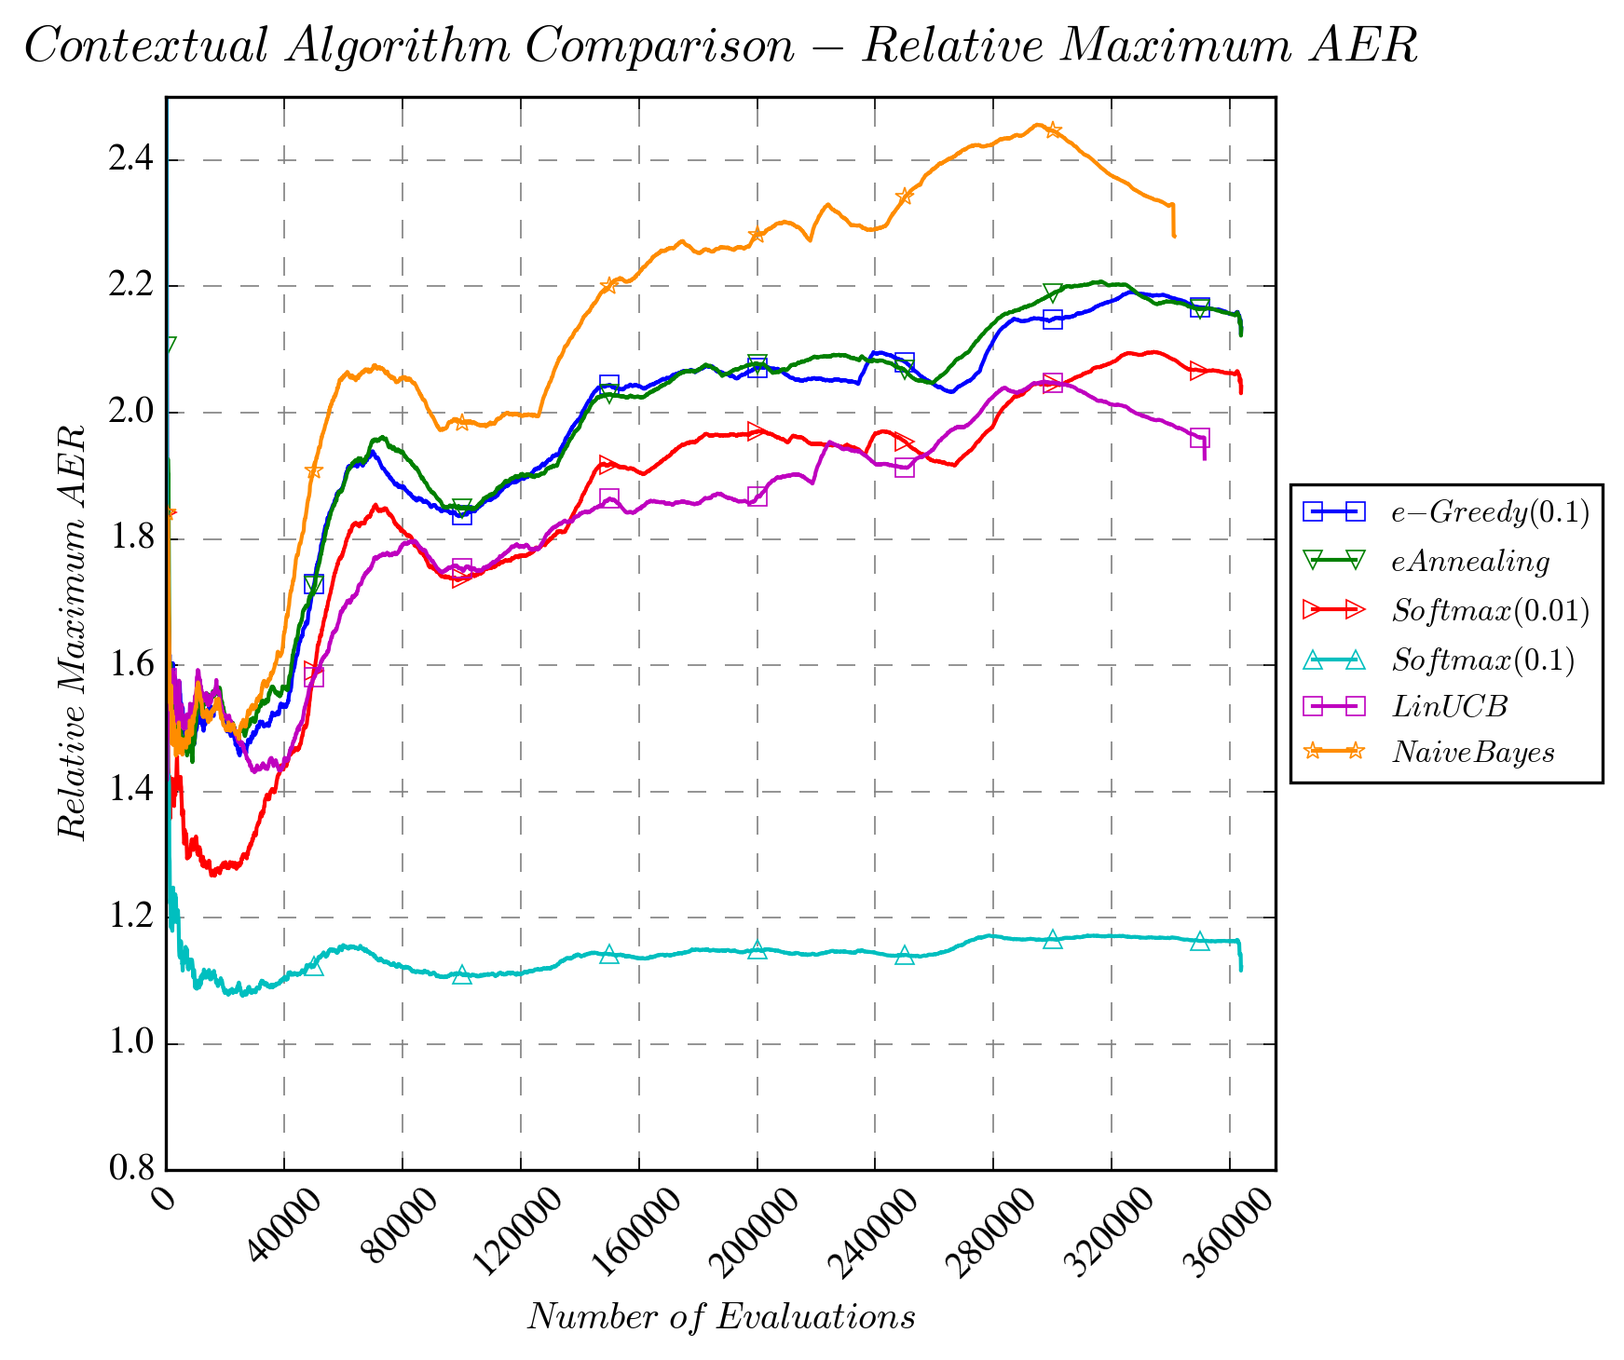
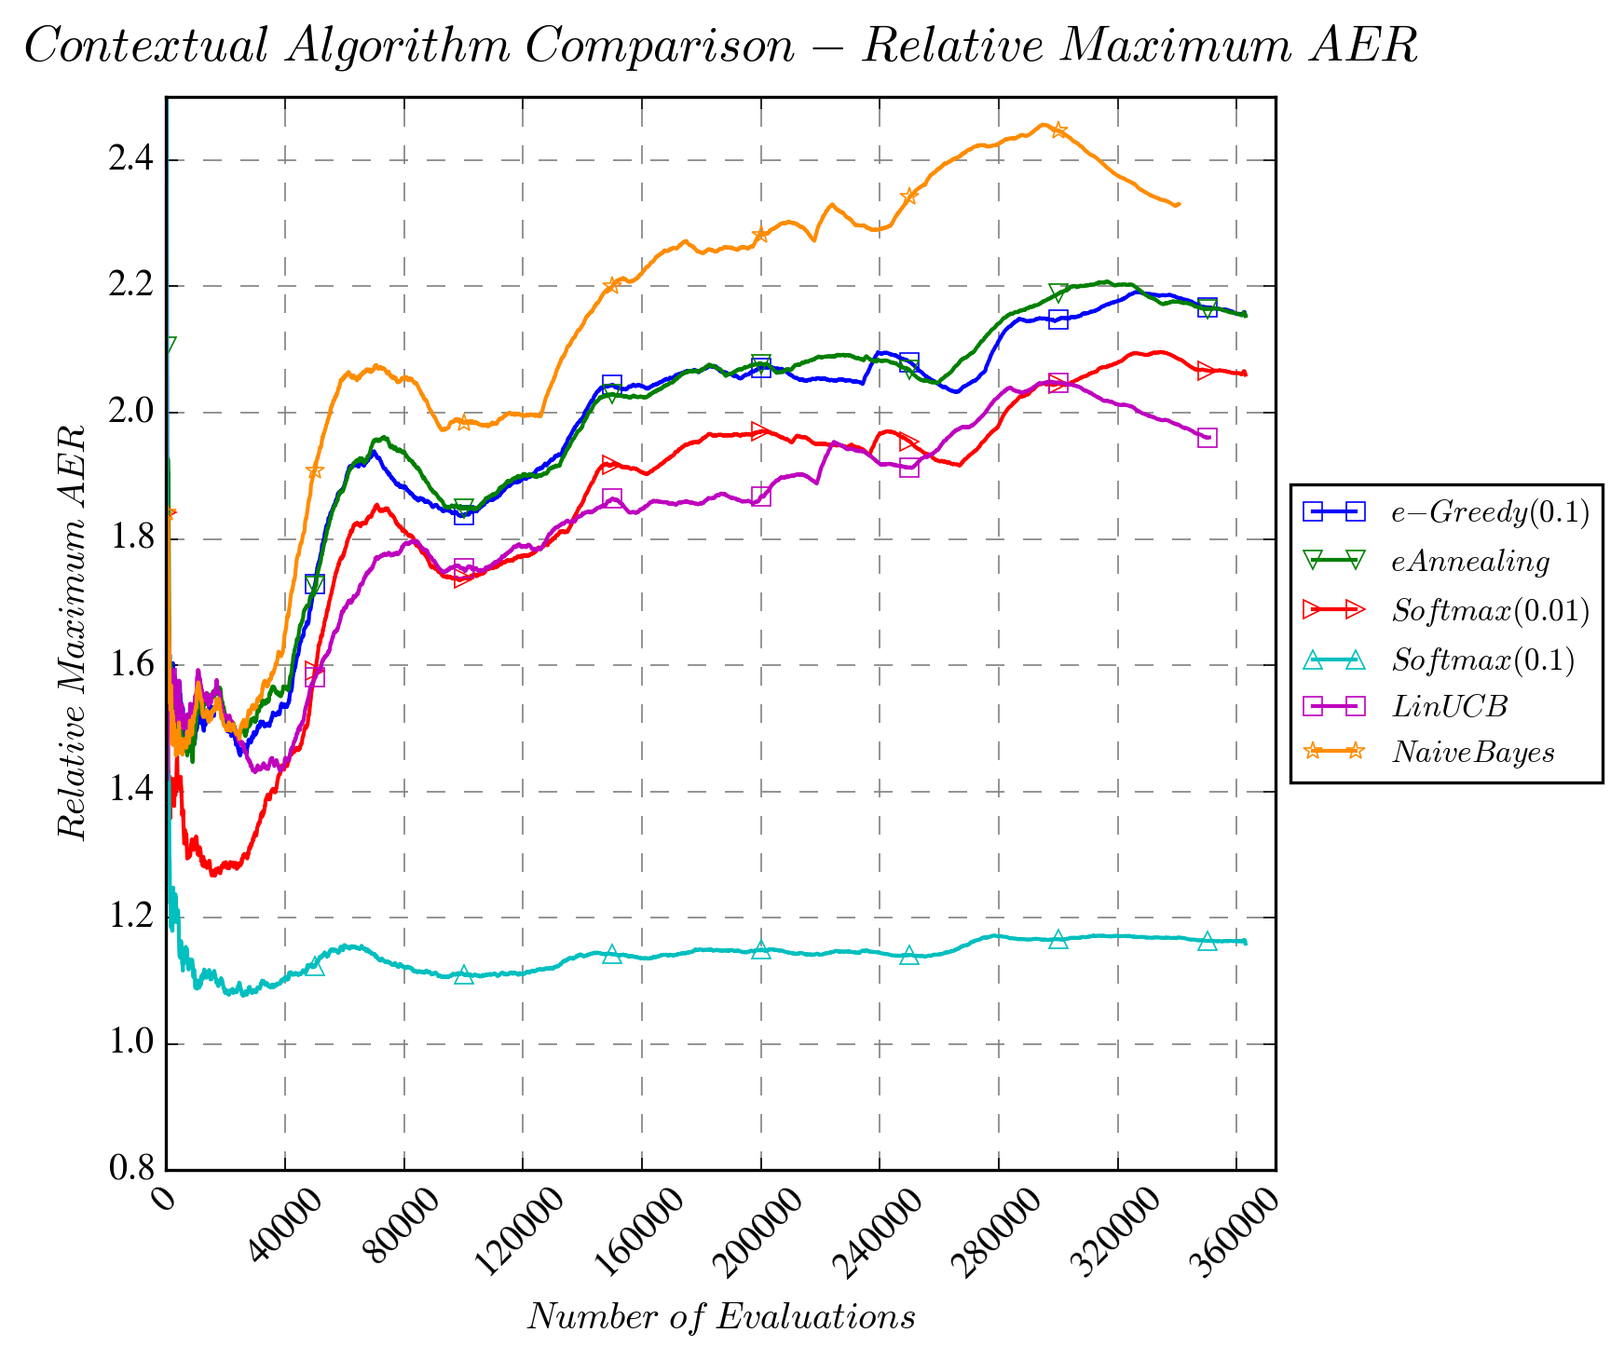
Continue updates to ensemble names

diff --git a/create_aer_proportion_of_optimal_vs_time_ensemble_plot.py b/create_aer_proportion_of_optimal_vs_time_ensemble_plot.py
@@ -24,12 +24,12 @@ ax.set_ylabel(r"$AER\ Proportion\ of\ Optimal\ Policy$")
 
 ax.plot(data['TimeBin'],data['EnsembleRandom']/data['MaxInRow'], lw='1.25', label=r'$EnsRandom$', marker='o', markevery=20, fillstyle='none')
 ax.plot(data['TimeBin'],data['EnsembleRandomUpdateAll']/data['MaxInRow'], lw='1.25', label=r'$EnsRandomUpdateAll$', marker='v', markevery=20, fillstyle='none')
-ax.plot(data['TimeBin'],data['EnsembleEAnnealingUpdateAll']/data['MaxInRow'], lw='1.25', label=r'$EnsEAnn$', marker='^', markevery=20, fillstyle='none')
-#ax.plot(data['TimeBin'],data['EnsembleBayesianUpdateAll']/data['MaxInRow'], lw='1.25', label=r'$EnsBayesian$', marker='s', markevery=20, fillstyle='none')
-ax.plot(data['TimeBin'],data['EnsembleBinomialUCIUpdateAll']/data['MaxInRow'], lw='1.25', label=r'$EnsBinomialUCI$', marker='*', markevery=20, fillstyle='none')
-ax.plot(data['TimeBin'],data['EnsembleSoftmax001UpdateAll']/data['MaxInRow'], lw='1.25', label=r'$EnsSoftmax0.01$', color='deepskyblue', marker='>', markevery=20, fillstyle='none')
-ax.plot(data['TimeBin'],data['EnsembleBinomialUCIMod1UpdateAll']/data['MaxInRow'], lw='1.25', label=r'$EnsBinomialUCIMod1$', marker='+', markevery=20, fillstyle='none')
-ax.plot(data['TimeBin'],data['EnsembleBinomialUCIMod2UpdateAll']/data['MaxInRow'], lw='1.25', label=r'$EnsBinomialUCIMod2$', color='fuchsia', marker='D', markevery=20, fillstyle='none')
+ax.plot(data['TimeBin'],data['EnsembleEAnnealing']/data['MaxInRow'], lw='1.25', label=r'$EnsEAnn$', marker='^', markevery=20, fillstyle='none')
+#ax.plot(data['TimeBin'],data['EnsembleBayesian']/data['MaxInRow'], lw='1.25', label=r'$EnsBayesian$', marker='s', markevery=20, fillstyle='none')
+ax.plot(data['TimeBin'],data['EnsembleBinomialUCI']/data['MaxInRow'], lw='1.25', label=r'$EnsBinomialUCI$', marker='*', markevery=20, fillstyle='none')
+ax.plot(data['TimeBin'],data['EnsembleSoftmax001']/data['MaxInRow'], lw='1.25', label=r'$EnsSoftmax0.01$', color='deepskyblue', marker='>', markevery=20, fillstyle='none')
+ax.plot(data['TimeBin'],data['EnsembleBinomialUCIMod1']/data['MaxInRow'], lw='1.25', label=r'$EnsBinomialUCIMod1$', marker='+', markevery=20, fillstyle='none')
+ax.plot(data['TimeBin'],data['EnsembleBinomialUCIMod2']/data['MaxInRow'], lw='1.25', label=r'$EnsBinomialUCIMod2$', color='fuchsia', marker='D', markevery=20, fillstyle='none')
 
 box = ax.get_position()
 ax.set_position([box.x0, box.y0, box.width * 0.8, box.height])

diff --git a/create_mean_aer_vs_time_plot_ensemble.py b/create_mean_aer_vs_time_plot_ensemble.py
@@ -24,12 +24,12 @@ ax.set_ylabel(r"$Relative\ Mean\ AER$")
 
 ax.plot(data['TimeBin'],data['EnsembleRandom']/data['Random'], lw='1.25', label=r'$EnsRandom$', marker='o', markevery=500, fillstyle='none')
 ax.plot(data['TimeBin'],data['EnsembleRandomUpdateAll']/data['Random'], lw='1.25', label=r'$EnsRandomUpdateAll$', marker='v', markevery=500, fillstyle='none')
-ax.plot(data['TimeBin'],data['EnsembleEAnnealingUpdateAll']/data['Random'], lw='1.25', label=r'$EnsEAnn$', marker='^', markevery=500, fillstyle='none')
-#ax.plot(data['TimeBin'],data['EnsembleBayesianUpdateAll']/data['Random'], lw='1.25', label=r'$EnsBayesian$', marker='s', markevery=500, fillstyle='none')
-ax.plot(data['TimeBin'],data['EnsembleBinomialUCIUpdateAll']/data['Random'], lw='1.25', label=r'$EnsBinomialUCI$', marker='*', markevery=500, fillstyle='none')
-ax.plot(data['TimeBin'],data['EnsembleSoftmax001UpdateAll']/data['Random'], lw='1.25', label=r'$EnsSoftmax0.01$', color='deepskyblue', marker='>', markevery=500, fillstyle='none')
-ax.plot(data['TimeBin'],data['EnsembleBinomialUCIMod1UpdateAll']/data['Random'], lw='1.25', label=r'$EnsBinomialUCIMod1$', marker='+', markevery=500, fillstyle='none')
-ax.plot(data['TimeBin'],data['EnsembleBinomialUCIMod2UpdateAll']/data['Random'], lw='1.25', label=r'$EnsBinomialUCIMod2$', color='fuchsia', marker='D', markevery=500, fillstyle='none')
+ax.plot(data['TimeBin'],data['EnsembleEAnnealing']/data['Random'], lw='1.25', label=r'$EnsEAnn$', marker='^', markevery=500, fillstyle='none')
+#ax.plot(data['TimeBin'],data['EnsembleBayesian']/data['Random'], lw='1.25', label=r'$EnsBayesian$', marker='s', markevery=500, fillstyle='none')
+ax.plot(data['TimeBin'],data['EnsembleBinomialUCI']/data['Random'], lw='1.25', label=r'$EnsBinomialUCI$', marker='*', markevery=500, fillstyle='none')
+ax.plot(data['TimeBin'],data['EnsembleSoftmax001']/data['Random'], lw='1.25', label=r'$EnsSoftmax0.01$', color='deepskyblue', marker='>', markevery=500, fillstyle='none')
+ax.plot(data['TimeBin'],data['EnsembleBinomialUCIMod1']/data['Random'], lw='1.25', label=r'$EnsBinomialUCIMod1$', marker='+', markevery=500, fillstyle='none')
+ax.plot(data['TimeBin'],data['EnsembleBinomialUCIMod2']/data['Random'], lw='1.25', label=r'$EnsBinomialUCIMod2$', color='fuchsia', marker='D', markevery=500, fillstyle='none')
 
 box = ax.get_position()
 ax.set_position([box.x0, box.y0, box.width * 0.8, box.height])

diff --git a/create_aer_proportion_of_optimal_ensemble_plot.py b/create_aer_proportion_of_optimal_ensemble_plot.py
@@ -24,12 +24,12 @@ ax.set_ylabel(r"$AER\ Proportion\ of\ Optimal\ Policy$")
 
 ax.plot(data['t'],data['EnsembleRandom']/data['MaxInRow'], lw='1.25', label=r'$EnsRandom$', marker='o', markevery=500, fillstyle='none')
 ax.plot(data['t'],data['EnsembleRandomUpdateAll']/data['MaxInRow'], lw='1.25', label=r'$EnsRandomUpdateAll$', marker='v', markevery=500, fillstyle='none')
-ax.plot(data['t'],data['EnsembleEAnnealingUpdateAll']/data['MaxInRow'], lw='1.25', label=r'$EnsEAnn$', marker='^', markevery=500, fillstyle='none')
-#ax.plot(data['t'],data['EnsembleBayesianUpdateAll']/data['MaxInRow'], lw='1.25', label=r'$EnsBayesian$', marker='s', markevery=500, fillstyle='none')
-ax.plot(data['t'],data['EnsembleBinomialUCIUpdateAll']/data['MaxInRow'], lw='1.25', label=r'$EnsBinomialUCI$', marker='*', markevery=500, fillstyle='none')
-ax.plot(data['t'],data['EnsembleSoftmax001UpdateAll']/data['MaxInRow'], lw='1.25', label=r'$EnsSoftmax0.01$', color='deepskyblue', marker='>', markevery=500, fillstyle='none')
-ax.plot(data['t'],data['EnsembleBinomialUCIMod1UpdateAll']/data['MaxInRow'], lw='1.25', label=r'$EnsBinomialUCIMod1$', marker='+', markevery=500, fillstyle='none')
-ax.plot(data['t'],data['EnsembleBinomialUCIMod2UpdateAll']/data['MaxInRow'], lw='1.25', label=r'$EnsBinomialUCIMod2$', color='fuchsia', marker='D', markevery=500, fillstyle='none')
+ax.plot(data['t'],data['EnsembleEAnnealing']/data['MaxInRow'], lw='1.25', label=r'$EnsEAnn$', marker='^', markevery=500, fillstyle='none')
+#ax.plot(data['t'],data['EnsembleBayesian']/data['MaxInRow'], lw='1.25', label=r'$EnsBayesian$', marker='s', markevery=500, fillstyle='none')
+ax.plot(data['t'],data['EnsembleBinomialUCI']/data['MaxInRow'], lw='1.25', label=r'$EnsBinomialUCI$', marker='*', markevery=500, fillstyle='none')
+ax.plot(data['t'],data['EnsembleSoftmax001']/data['MaxInRow'], lw='1.25', label=r'$EnsSoftmax0.01$', color='deepskyblue', marker='>', markevery=500, fillstyle='none')
+ax.plot(data['t'],data['EnsembleBinomialUCIMod1']/data['MaxInRow'], lw='1.25', label=r'$EnsBinomialUCIMod1$', marker='+', markevery=500, fillstyle='none')
+ax.plot(data['t'],data['EnsembleBinomialUCIMod2']/data['MaxInRow'], lw='1.25', label=r'$EnsBinomialUCIMod2$', color='fuchsia', marker='D', markevery=500, fillstyle='none')
 
 box = ax.get_position()
 ax.set_position([box.x0, box.y0, box.width * 0.8, box.height])

diff --git a/create_max_aer_plot_ensemble.py b/create_max_aer_plot_ensemble.py
@@ -25,12 +25,12 @@ ax.set_ylabel(r"$Relative\ Maximum\ AER$")
 
 ax.plot(data['t'],data['EnsembleRandom']/data2['Random'], lw='1.25', label=r'$EnsRandom$', marker='s', markevery=500, fillstyle='none')
 ax.plot(data['t'],data['EnsembleRandomUpdateAll']/data2['Random'], lw='1.25', label=r'$EnsRandomUpdateAll$', marker='v', markevery=500, fillstyle='none')
-ax.plot(data['t'],data['EnsembleEAnnealingUpdateAll']/data2['Random'], lw='1.25', label=r'$EnsEAnn$', marker='^', markevery=500, fillstyle='none')
-#ax.plot(data['t'],data['EnsembleBayesianUpdateAll']/data2['Random'], lw='1.25', label=r'$EnsBayesian$', marker='s', markevery=500, fillstyle='none')
-ax.plot(data['t'],data['EnsembleBinomialUCIUpdateAll']/data2['Random'], lw='1.25', label=r'$EnsBinomialUCI$', marker='*', markevery=500, fillstyle='none')
-ax.plot(data['t'],data['EnsembleSoftmax001UpdateAll']/data2['Random'], lw='1.25', label=r'$EnsSoftmax0.01$', color='deepskyblue', marker='>', markevery=500, fillstyle='none')
-ax.plot(data['t'],data['EnsembleBinomialUCIMod1UpdateAll']/data2['Random'], lw='1.25', label=r'$EnsBinomialUCIMod1$', marker='+', markevery=500, fillstyle='none')
-ax.plot(data['t'],data['EnsembleBinomialUCIMod2UpdateAll']/data2['Random'], lw='1.25', label=r'$EnsBinomialUCIMod2$', color='fuchsia', marker='D', markevery=500, fillstyle='none')
+ax.plot(data['t'],data['EnsembleEAnnealing']/data2['Random'], lw='1.25', label=r'$EnsEAnn$', marker='^', markevery=500, fillstyle='none')
+#ax.plot(data['t'],data['EnsembleBayesian']/data2['Random'], lw='1.25', label=r'$EnsBayesian$', marker='s', markevery=500, fillstyle='none')
+ax.plot(data['t'],data['EnsembleBinomialUCI']/data2['Random'], lw='1.25', label=r'$EnsBinomialUCI$', marker='*', markevery=500, fillstyle='none')
+ax.plot(data['t'],data['EnsembleSoftmax001']/data2['Random'], lw='1.25', label=r'$EnsSoftmax0.01$', color='deepskyblue', marker='>', markevery=500, fillstyle='none')
+ax.plot(data['t'],data['EnsembleBinomialUCIMod1']/data2['Random'], lw='1.25', label=r'$EnsBinomialUCIMod1$', marker='+', markevery=500, fillstyle='none')
+ax.plot(data['t'],data['EnsembleBinomialUCIMod2']/data2['Random'], lw='1.25', label=r'$EnsBinomialUCIMod2$', color='fuchsia', marker='D', markevery=500, fillstyle='none')
 
 box = ax.get_position()
 ax.set_position([box.x0, box.y0, box.width * 0.8, box.height])

diff --git a/create_min_aer_plot_ensemble.py b/create_min_aer_plot_ensemble.py
@@ -25,12 +25,12 @@ ax.set_ylabel(r"$Relative\ Minimum\ AER$")
 
 ax.plot(data['t'],data['EnsembleRandom']/data2['Random'], lw='1.25', label=r'$EnsRandom$', marker='s', markevery=500, fillstyle='none')
 ax.plot(data['t'],data['EnsembleRandomUpdateAll']/data2['Random'], lw='1.25', label=r'$EnsRandomUpdateAll$', marker='v', markevery=500, fillstyle='none')
-ax.plot(data['t'],data['EnsembleEAnnealingUpdateAll']/data2['Random'], lw='1.25', label=r'$EnsEAnn$', marker='^', markevery=500, fillstyle='none')
-#ax.plot(data['t'],data['EnsembleBayesianUpdateAll']/data2['Random'], lw='1.25', label=r'$EnsBayesian$', marker='s', markevery=500, fillstyle='none')
-ax.plot(data['t'],data['EnsembleBinomialUCIUpdateAll']/data2['Random'], lw='1.25', label=r'$EnsBinomialUCI$', marker='*', markevery=500, fillstyle='none')
-ax.plot(data['t'],data['EnsembleSoftmax001UpdateAll']/data2['Random'], lw='1.25', label=r'$EnsSoftmax0.01$', color='deepskyblue', marker='>', markevery=500, fillstyle='none')
-ax.plot(data['t'],data['EnsembleBinomialUCIMod1UpdateAll']/data2['Random'], lw='1.25', label=r'$EnsBinomialUCIMod1$', marker='+', markevery=500, fillstyle='none')
-ax.plot(data['t'],data['EnsembleBinomialUCIMod2UpdateAll']/data2['Random'], lw='1.25', label=r'$EnsBinomialUCIMod2$', color='fuchsia', marker='D', markevery=500, fillstyle='none')
+ax.plot(data['t'],data['EnsembleEAnnealing']/data2['Random'], lw='1.25', label=r'$EnsEAnn$', marker='^', markevery=500, fillstyle='none')
+#ax.plot(data['t'],data['EnsembleBayesian']/data2['Random'], lw='1.25', label=r'$EnsBayesian$', marker='s', markevery=500, fillstyle='none')
+ax.plot(data['t'],data['EnsembleBinomialUCI']/data2['Random'], lw='1.25', label=r'$EnsBinomialUCI$', marker='*', markevery=500, fillstyle='none')
+ax.plot(data['t'],data['EnsembleSoftmax001']/data2['Random'], lw='1.25', label=r'$EnsSoftmax0.01$', color='deepskyblue', marker='>', markevery=500, fillstyle='none')
+ax.plot(data['t'],data['EnsembleBinomialUCIMod1']/data2['Random'], lw='1.25', label=r'$EnsBinomialUCIMod1$', marker='+', markevery=500, fillstyle='none')
+ax.plot(data['t'],data['EnsembleBinomialUCIMod2']/data2['Random'], lw='1.25', label=r'$EnsBinomialUCIMod2$', color='fuchsia', marker='D', markevery=500, fillstyle='none')
 
 box = ax.get_position()
 ax.set_position([box.x0, box.y0, box.width * 0.8, box.height])

diff --git a/create_mean_aer_plot_ensemble.py b/create_mean_aer_plot_ensemble.py
@@ -23,12 +23,12 @@ ax.set_ylabel(r"$Relative\ Mean\ AER$")
 
 ax.plot(data['t'],data['EnsembleRandom']/data['Random'], lw='1.25', label=r'$EnsRandom$', marker='o', markevery=500, fillstyle='none')
 ax.plot(data['t'],data['EnsembleRandomUpdateAll']/data['Random'], lw='1.25', label=r'$EnsRandomUpdateAll$', marker='v', markevery=500, fillstyle='none')
-ax.plot(data['t'],data['EnsembleEAnnealingUpdateAll']/data['Random'], lw='1.25', label=r'$EnsEAnn$', marker='^', markevery=500, fillstyle='none')
-#ax.plot(data['t'],data['EnsembleBayesianUpdateAll']/data['Random'], lw='1.25', label=r'$EnsBayesian$', marker='s', markevery=500, fillstyle='none')
-ax.plot(data['t'],data['EnsembleBinomialUCIUpdateAll']/data['Random'], lw='1.25', label=r'$EnsBinomialUCI$', marker='*', markevery=500, fillstyle='none')
-ax.plot(data['t'],data['EnsembleSoftmax001UpdateAll']/data['Random'], lw='1.25', label=r'$EnsSoftmax0.01$', color='deepskyblue', marker='>', markevery=500, fillstyle='none')
-ax.plot(data['t'],data['EnsembleBinomialUCIMod1UpdateAll']/data['Random'], lw='1.25', label=r'$EnsBinomialUCIMod1$', marker='+', markevery=500, fillstyle='none')
-ax.plot(data['t'],data['EnsembleBinomialUCIMod2UpdateAll']/data['Random'], lw='1.25', label=r'$EnsBinomialUCIMod2$', color='fuchsia', marker='D', markevery=500, fillstyle='none')
+ax.plot(data['t'],data['EnsembleEAnnealing']/data['Random'], lw='1.25', label=r'$EnsEAnn$', marker='^', markevery=500, fillstyle='none')
+#ax.plot(data['t'],data['EnsembleBayesian']/data['Random'], lw='1.25', label=r'$EnsBayesian$', marker='s', markevery=500, fillstyle='none')
+ax.plot(data['t'],data['EnsembleBinomialUCI']/data['Random'], lw='1.25', label=r'$EnsBinomialUCI$', marker='*', markevery=500, fillstyle='none')
+ax.plot(data['t'],data['EnsembleSoftmax001']/data['Random'], lw='1.25', label=r'$EnsSoftmax0.01$', color='deepskyblue', marker='>', markevery=500, fillstyle='none')
+ax.plot(data['t'],data['EnsembleBinomialUCIMod1']/data['Random'], lw='1.25', label=r'$EnsBinomialUCIMod1$', marker='+', markevery=500, fillstyle='none')
+ax.plot(data['t'],data['EnsembleBinomialUCIMod2']/data['Random'], lw='1.25', label=r'$EnsBinomialUCIMod2$', color='fuchsia', marker='D', markevery=500, fillstyle='none')
 
 box = ax.get_position()
 ax.set_position([box.x0, box.y0, box.width * 0.8, box.height])

diff --git a/create_stdev_aer_plot_ensemble.py b/create_stdev_aer_plot_ensemble.py
@@ -23,12 +23,12 @@ ax.set_ylabel(r"$Standard\ Deviation$")
 
 ax.plot(data['t'],data['EnsembleRandom'], lw='1.25', label=r'$EnsRandom$', marker='o', markevery=500, fillstyle='none')
 ax.plot(data['t'],data['EnsembleRandomUpdateAll'], lw='1.25', label=r'$EnsRandomUpdateAll$', marker='v', markevery=500, fillstyle='none')
-ax.plot(data['t'],data['EnsembleEAnnealingUpdateAll'], lw='1.25', label=r'$EnsEAnn$', marker='^', markevery=500, fillstyle='none')
-#ax.plot(data['t'],data['EnsembleBayesianUpdateAll'], lw='1.25', label=r'$EnsBayesian$', marker='s', markevery=500, fillstyle='none')
-ax.plot(data['t'],data['EnsembleBinomialUCIUpdateAll'], lw='1.25', label=r'$EnsBinomialUCI$', marker='*', markevery=500, fillstyle='none')
-ax.plot(data['t'],data['EnsembleSoftmax001UpdateAll'], lw='1.25', label=r'$EnsSoftmax0.01$', color='deepskyblue', marker='>', markevery=500, fillstyle='none')
-ax.plot(data['t'],data['EnsembleBinomialUCIMod1UpdateAll'], lw='1.25', label=r'$EnsBinomialUCIMod1$', marker='+', markevery=500, fillstyle='none')
-ax.plot(data['t'],data['EnsembleBinomialUCIMod2UpdateAll'], lw='1.25', label=r'$EnsBinomialUCIMod2$', color='fuchsia', marker='D', markevery=500, fillstyle='none')
+ax.plot(data['t'],data['EnsembleEAnnealing'], lw='1.25', label=r'$EnsEAnn$', marker='^', markevery=500, fillstyle='none')
+#ax.plot(data['t'],data['EnsembleBayesian'], lw='1.25', label=r'$EnsBayesian$', marker='s', markevery=500, fillstyle='none')
+ax.plot(data['t'],data['EnsembleBinomialUCI'], lw='1.25', label=r'$EnsBinomialUCI$', marker='*', markevery=500, fillstyle='none')
+ax.plot(data['t'],data['EnsembleSoftmax001'], lw='1.25', label=r'$EnsSoftmax0.01$', color='deepskyblue', marker='>', markevery=500, fillstyle='none')
+ax.plot(data['t'],data['EnsembleBinomialUCIMod1'], lw='1.25', label=r'$EnsBinomialUCIMod1$', marker='+', markevery=500, fillstyle='none')
+ax.plot(data['t'],data['EnsembleBinomialUCIMod2'], lw='1.25', label=r'$EnsBinomialUCIMod2$', color='fuchsia', marker='D', markevery=500, fillstyle='none')
 
 box = ax.get_position()
 ax.set_position([box.x0, box.y0, box.width * 0.8, box.height])

diff --git a/exploChallenge/policies/EnsembleBinomialUCIMod1.py b/exploChallenge/policies/EnsembleBinomialUCIMod1.py
@@ -120,8 +120,8 @@ class EnsembleBinomialUCIMod1(ContextualBanditPolicy):
             #print self.policy_most_recent_runtimes
             for i in self.policies:
 
-                print str("EnsembleBinomialUCIMod1UpdateAll") + "," + str(self.policy_nicknames[self.policies.index(i)]) + "," + \
+                print str("EnsembleBinomialUCIMod1") + "," + str(self.policy_nicknames[self.policies.index(i)]) + "," + \
                       str(self.updates) + "," + str(float(self.policy_counts[str(i)])/self.updates)
-                output_file.write(str("EnsembleBinomialUCIMod1UpdateAll") + "," + str(self.policy_nicknames[self.policies.index(i)]) + ","
+                output_file.write(str("EnsembleBinomialUCIMod1") + "," + str(self.policy_nicknames[self.policies.index(i)]) + ","
                                   + str(self.updates) + "," + str(float(self.policy_counts[str(i)])/self.updates) + "\n")
             #print "\n"

diff --git a/exploChallenge/policies/EnsembleBinomialUCIMod2.py b/exploChallenge/policies/EnsembleBinomialUCIMod2.py
@@ -119,8 +119,8 @@ class EnsembleBinomialUCIMod2(ContextualBanditPolicy):
             print self.policy_most_recent_runtimes
             for i in self.policies:
 
-                print str("EnsembleBinomialUCIMod2UpdateAll") + "," + str(self.policy_nicknames[self.policies.index(i)]) + "," + \
+                print str("EnsembleBinomialUCIMod2") + "," + str(self.policy_nicknames[self.policies.index(i)]) + "," + \
                       str(self.updates) + "," + str(float(self.policy_counts[str(i)])/self.updates)
-                output_file.write(str("EnsembleBinomialUCIMod2UpdateAll") + "," + str(self.policy_nicknames[self.policies.index(i)]) + ","
+                output_file.write(str("EnsembleBinomialUCIMod2") + "," + str(self.policy_nicknames[self.policies.index(i)]) + ","
                                   + str(self.updates) + "," + str(float(self.policy_counts[str(i)])/self.updates) + "\n")
             print "\n"

diff --git a/exploChallenge/policies/EnsembleBinomialUCIMod3.py b/exploChallenge/policies/EnsembleBinomialUCIMod3.py
@@ -119,8 +119,8 @@ class EnsembleBinomialUCIMod3(ContextualBanditPolicy):
             print self.policy_most_recent_runtimes
             for i in self.policies:
 
-                print str("EnsembleBinomialUCIMod3UpdateAll") + "," + str(self.policy_nicknames[self.policies.index(i)]) + "," + \
+                print str("EnsembleBinomialUCIMod3") + "," + str(self.policy_nicknames[self.policies.index(i)]) + "," + \
                       str(self.updates) + "," + str(float(self.policy_counts[str(i)])/self.updates)
-                output_file.write(str("EnsembleBinomialUCIMod3UpdateAll") + "," + str(self.policy_nicknames[self.policies.index(i)]) + ","
+                output_file.write(str("EnsembleBinomialUCIMod3") + "," + str(self.policy_nicknames[self.policies.index(i)]) + ","
                                   + str(self.updates) + "," + str(float(self.policy_counts[str(i)])/self.updates) + "\n")
             print "\n"

diff --git a/exploChallenge/policies/EnsembleBinomialUCIMod4.py b/exploChallenge/policies/EnsembleBinomialUCIMod4.py
@@ -119,8 +119,8 @@ class EnsembleBinomialUCIMod4(ContextualBanditPolicy):
             print self.policy_most_recent_runtimes
             for i in self.policies:
 
-                print str("EnsembleBinomialUCIMod4UpdateAll") + "," + str(self.policy_nicknames[self.policies.index(i)]) + "," + \
+                print str("EnsembleBinomialUCIMod4") + "," + str(self.policy_nicknames[self.policies.index(i)]) + "," + \
                       str(self.updates) + "," + str(float(self.policy_counts[str(i)])/self.updates)
-                output_file.write(str("EnsembleBinomialUCIMod4UpdateAll") + "," + str(self.policy_nicknames[self.policies.index(i)]) + ","
+                output_file.write(str("EnsembleBinomialUCIMod4") + "," + str(self.policy_nicknames[self.policies.index(i)]) + ","
                                   + str(self.updates) + "," + str(float(self.policy_counts[str(i)])/self.updates) + "\n")
             print "\n"
